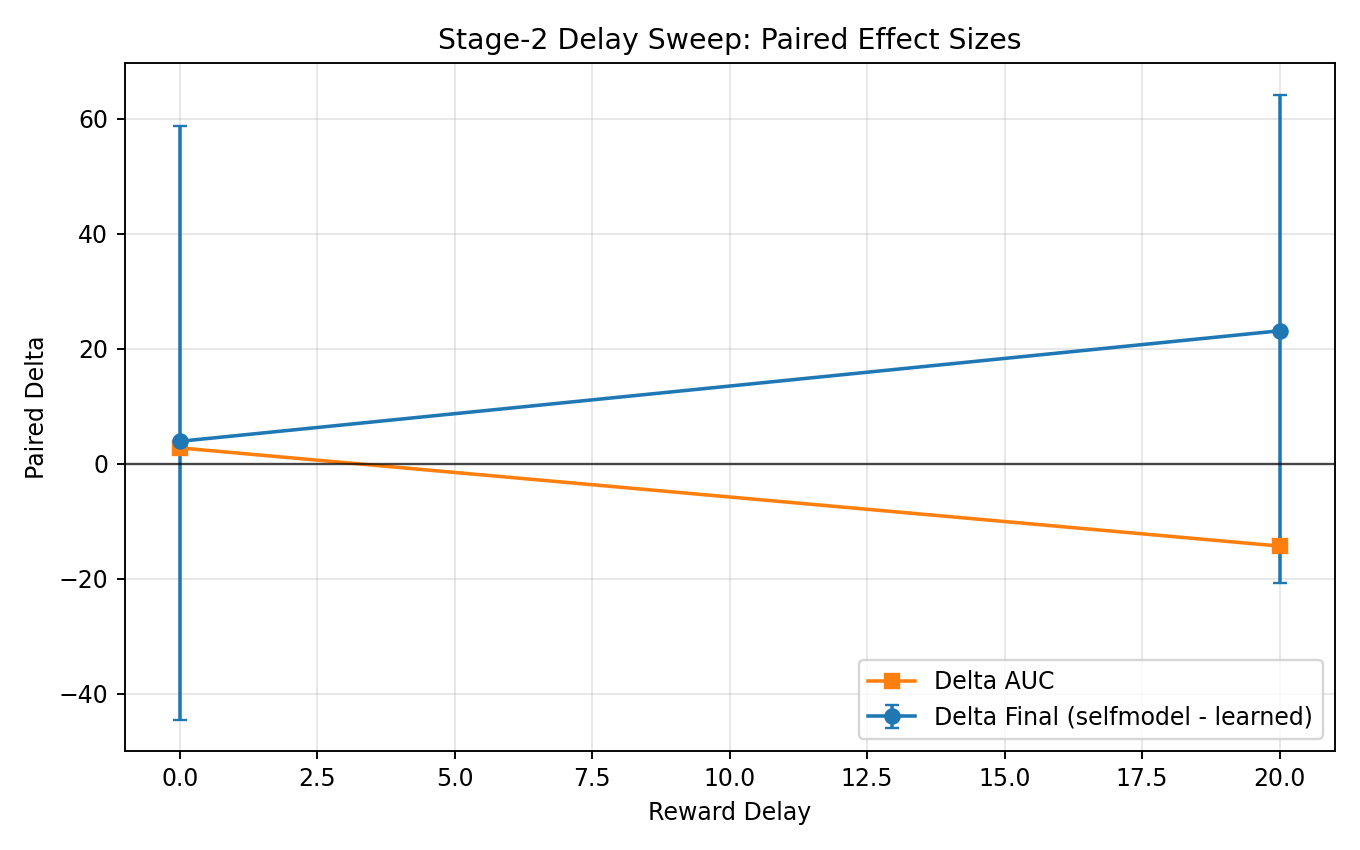
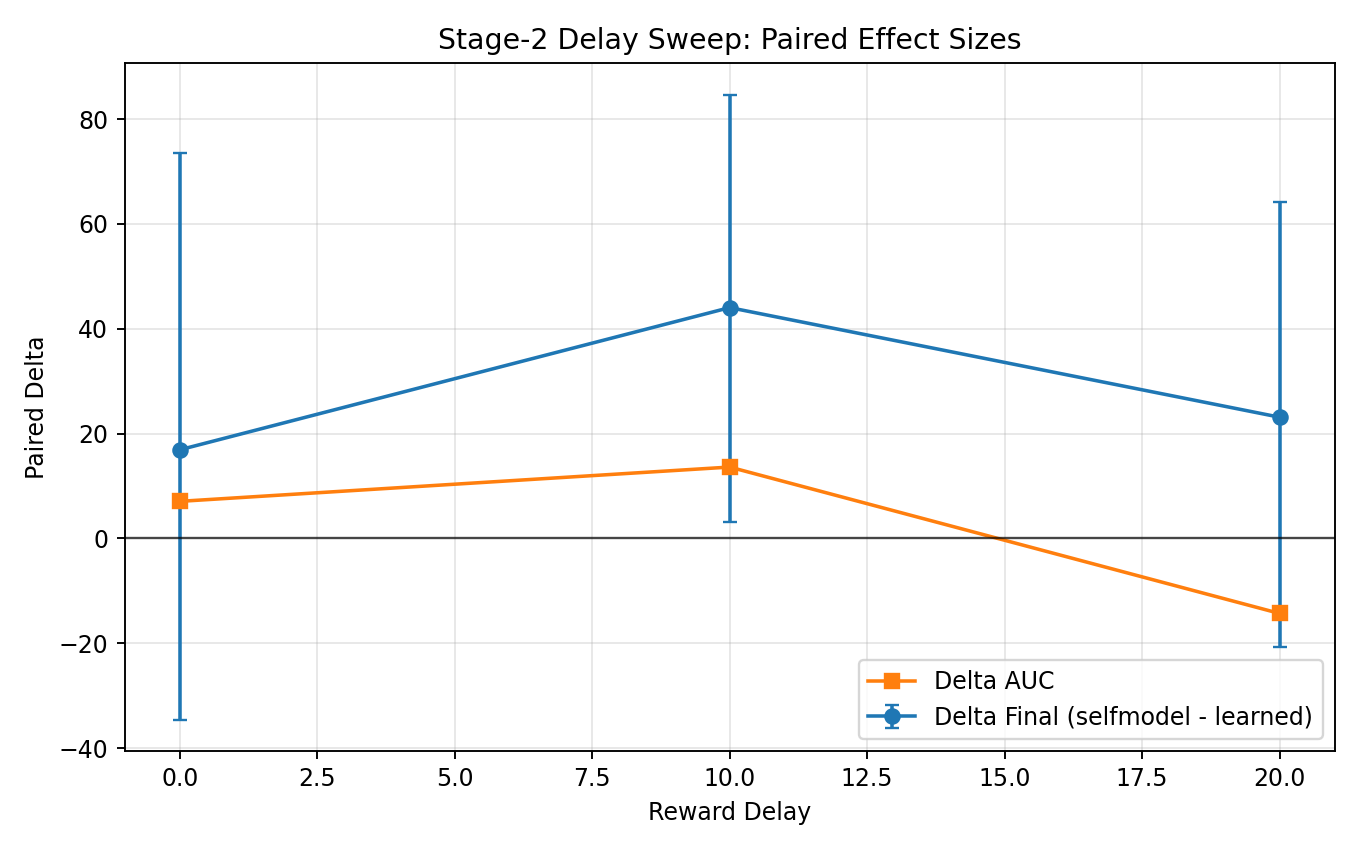
stage2_warmup_sweep_01020_groupdiff_0vs10_delay0s30

diff --git a/docs/stage2_delay_sweep_warmup_both20k_summary_2026-02-16.tex b/docs/stage2_delay_sweep_warmup_both20k_summary_2026-02-16.tex
@@ -2,7 +2,8 @@
 \toprule
 delay & root & baseline_condition & selfmodel_condition & baseline_final_mean & baseline_final_std & selfmodel_final_mean & selfmodel_final_std & delta_final_mean & delta_final_std & delta_final_ci95_low & delta_final_ci95_high & delta_final_n_pairs & delta_final_n_positive & delta_final_n_negative & baseline_auc_mean & baseline_auc_std & selfmodel_auc_mean & selfmodel_auc_std & delta_auc_mean & delta_auc_std & delta_auc_ci95_low & delta_auc_ci95_high & delta_auc_n_pairs & delta_auc_n_positive & delta_auc_n_negative \\
 \midrule
-0 & runs/sweeps/stage2_delay_sweep_warmup_both20k_v1/delay0 & learned_tau_delay10 & learned_tau_delay10_selfmodel & 208.704 & 70.705 & 212.615 & 83.274 & 3.911 & 103.356 & -44.501 & 58.745 & 15.000 & 6.000 & 9.000 & 161.102 & 29.273 & 163.869 & 38.474 & 2.767 & 54.363 & -22.265 & 32.796 & 15.000 & 7.000 & 8.000 \\
+0 & runs/sweeps/stage2_delay_sweep_warmup_both20k_v1/delay0 & learned_tau_delay10 & learned_tau_delay10_selfmodel & 203.778 & 90.236 & 220.689 & 113.399 & 16.910 & 148.659 & -34.583 & 73.464 & 30.000 & 14.000 & 16.000 & 163.255 & 48.121 & 170.328 & 55.920 & 7.073 & 71.934 & -18.177 & 34.160 & 30.000 & 15.000 & 15.000 \\
+10 & runs/sweeps/stage2_delay_sweep_warmup_both20k_v1/delay10 & learned_tau_delay10 & learned_tau_delay10_selfmodel & 192.491 & 82.982 & 236.531 & 112.553 & 44.040 & 112.183 & 3.169 & 84.658 & 30.000 & 19.000 & 11.000 & 162.339 & 39.656 & 175.954 & 59.820 & 13.615 & 72.492 & -11.065 & 40.145 & 30.000 & 15.000 & 15.000 \\
 20 & runs/sweeps/stage2_delay_sweep_warmup_both20k_v1/delay20 & learned_tau_delay10 & learned_tau_delay10_selfmodel & 168.553 & 49.841 & 191.685 & 62.335 & 23.131 & 84.747 & -20.684 & 64.190 & 15.000 & 9.000 & 6.000 & 155.217 & 49.330 & 140.906 & 25.623 & -14.311 & 59.793 & -44.870 & 15.791 & 15.000 & 9.000 & 6.000 \\
 \bottomrule
 \end{tabular}

diff --git a/docs/stage2_delay_warmup_delay0_paired_2026-02-16.tex b/docs/stage2_delay_warmup_delay0_paired_2026-02-16.tex
@@ -2,7 +2,7 @@
 \toprule
 anchor & comparator & metric & n_pairs & delta_mean & delta_std & ci95_low & ci95_high & delta_min & delta_max & n_positive & n_negative & n_zero \\
 \midrule
-learned_tau_delay10_selfmodel & learned_tau_delay10 & final_mean & 15 & 3.911 & 103.356 & -44.501 & 58.745 & -113.380 & 262.315 & 6 & 9 & 0 \\
-learned_tau_delay10_selfmodel & learned_tau_delay10 & auc & 15 & 2.767 & 54.363 & -22.265 & 32.796 & -58.780 & 150.665 & 7 & 8 & 0 \\
+learned_tau_delay10_selfmodel & learned_tau_delay10 & final_mean & 30 & 16.910 & 148.659 & -34.583 & 73.464 & -209.760 & 353.665 & 14 & 16 & 0 \\
+learned_tau_delay10_selfmodel & learned_tau_delay10 & auc & 30 & 7.073 & 71.934 & -18.177 & 34.160 & -116.559 & 150.665 & 15 & 15 & 0 \\
 \bottomrule
 \end{tabular}

diff --git a/docs/stage2_delay_warmup_groupdiff_0_vs_10_2026-02-16.tex b/docs/stage2_delay_warmup_groupdiff_0_vs_10_2026-02-16.tex
@@ -1,0 +1,8 @@
+\begin{tabular}{lrllllllllllrrr}
+\toprule
+metric & n_seeds & low_delays & high_delays & low_delta_mean & low_delta_std & high_delta_mean & high_delta_std & group_diff_mean & group_diff_std & group_diff_ci95_low & group_diff_ci95_high & n_positive & n_negative & n_zero \\
+\midrule
+final_mean & 30 & 0 & 10 & 16.910 & 148.659 & 44.040 & 112.183 & 27.130 & 187.127 & -42.314 & 90.577 & 18 & 12 & 0 \\
+auc & 30 & 0 & 10 & 7.073 & 71.934 & 13.615 & 72.492 & 6.542 & 105.777 & -30.845 & 44.310 & 14 & 16 & 0 \\
+\bottomrule
+\end{tabular}

diff --git a/docs/stage2_results_2026-02-16.md b/docs/stage2_results_2026-02-16.md
@@ -264,17 +264,17 @@ Interpretation:
 - `noerr - learned` is also direction-positive but inconclusive, which suggests warmup can partially lift noerr and reduce separation between `selfmodel` and `noerr`.
 - `tauonly50k` and `lambdaonly50k` both underperformed, indicating that balanced short warmup is the stable direction rather than one-sided long warmup.
 
-## Warmup Delay Sanity (0 vs 20, Low-Cost)
+## Warmup Delay Sweep Refresh (0 / 10 / 20)
 
-To check whether warmup gains are specific to `delay=10`, we ran a low-cost sanity sweep:
+To place the strong `delay=10` result in the same sweep context, we refreshed warmup delay analysis:
 
-- Root base: `runs/sweeps/stage2_delay_sweep_warmup_both20k_v1`
+- Base root: `runs/sweeps/stage2_delay_sweep_warmup_both20k_v1`
+- Conditions: `learned_tau_delay10` vs `learned_tau_delay10_selfmodel`
 - Warmup schedule: `pred_error_tau_warmup_timesteps=20000`, `lambda_self_warmup_timesteps=20000`
 - Time regularization: `time_reg.lambda_mean=1e-3`, `time_reg.lambda_var=1e-2`
-- Conditions: `learned_tau_delay10` vs `learned_tau_delay10_selfmodel`
-- Delays: `0`, `20`
-- Budget:
-  - `delay=0`: 15 seeds
+- Delay budgets:
+  - `delay=0`: 30 seeds
+  - `delay=10`: 30 seeds (imported aggregate from `runs/sweeps/stage2_delay_delaybiased_warmup_both20k_v1`)
   - `delay=20`: 15 seeds
 
 Artifacts:
@@ -288,42 +288,44 @@ Artifacts:
 
 Paired final deltas (`selfmodel - learned`):
 
-- `delay=0`: `+3.911` (CI `[-44.501, 58.745]`)
-- `delay=20`: `+23.131` (CI `[-20.684, 64.190]`)
+- `delay=0` (`n=30`): `+16.910` (CI `[-34.583, 73.464]`)
+- `delay=10` (`n=30`): `+44.040` (CI `[3.169, 84.658]`)
+- `delay=20` (`n=15`): `+23.131` (CI `[-20.684, 64.190]`)
 
 Paired AUC deltas (`selfmodel - learned`):
 
-- `delay=0`: `+2.767` (CI `[-22.265, 32.796]`)
-- `delay=20`: `-14.311` (CI `[-44.870, 15.791]`)
+- `delay=0` (`n=30`): `+7.073` (CI `[-18.177, 34.160]`)
+- `delay=10` (`n=30`): `+13.615` (CI `[-11.065, 40.145]`)
+- `delay=20` (`n=15`): `-14.311` (CI `[-44.870, 15.791]`)
 
 Interpretation:
 
-- After balancing both delays to 15 seeds, both `delay=0` and `delay=20` final deltas still cross zero.
-- The direction remains positive at `delay=20`, but this stays a trend-level sanity result rather than a fixed significance claim.
+- The strongest and only fixed positive final-effect point remains `delay=10`.
+- `delay=0` and `delay=20` remain direction-positive in final mean but inconclusive at current confidence.
 
-## Warmup Delay Group Difference (0 vs 20, Seed-Matched)
+## Warmup Delay Group Difference (0 vs 10, Seed-Matched)
 
-We computed a seed-matched group contrast on warmup sweep deltas:
+We computed warmup group contrast with matched seeds:
 
 - Low-delay group: `delay={0}`
-- High-delay group: `delay={20}`
+- High-delay group: `delay={10}`
 - Delta definition: `selfmodel - learned`
 
 Artifacts:
 
-- `docs/stage2_delay_warmup_groupdiff_2026-02-16.csv`
-- `docs/stage2_delay_warmup_groupdiff_per_seed_2026-02-16.csv`
-- `docs/stage2_delay_warmup_groupdiff_2026-02-16.tex`
+- `docs/stage2_delay_warmup_groupdiff_0_vs_10_2026-02-16.csv`
+- `docs/stage2_delay_warmup_groupdiff_0_vs_10_per_seed_2026-02-16.csv`
+- `docs/stage2_delay_warmup_groupdiff_0_vs_10_2026-02-16.tex`
 
-Results (bootstrap 95% CI, intersection seeds across groups):
+Results (bootstrap 95% CI):
 
-- `final_mean`: group diff (`high - low`) = `+19.220` (CI `[-49.714, 85.881]`)
-- `AUC`: group diff (`high - low`) = `-17.078` (CI `[-52.259, 17.635]`)
+- `final_mean`: group diff (`10 - 0`) = `+27.130` (CI `[-42.314, 90.577]`)
+- `AUC`: group diff (`10 - 0`) = `+6.542` (CI `[-30.845, 44.310]`)
 
 Interpretation:
 
-- Group contrast is direction-positive in final score but not significant at 95% CI.
-- With both delays now at 15 seeds, current evidence supports a delay-dependence trend, not a fixed claim.
+- Directionally, `delay=10` remains stronger than `delay=0`, but group-level CI still crosses zero.
+- At this point, warmup delay dependence is best treated as a trend; fixed claim remains the per-delay `delay=10` result.
 
 ## Figures
 
